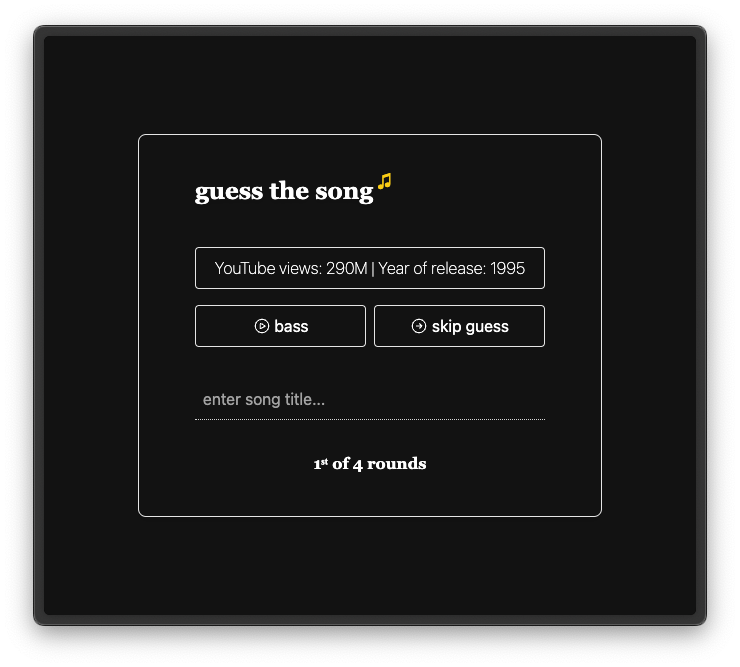
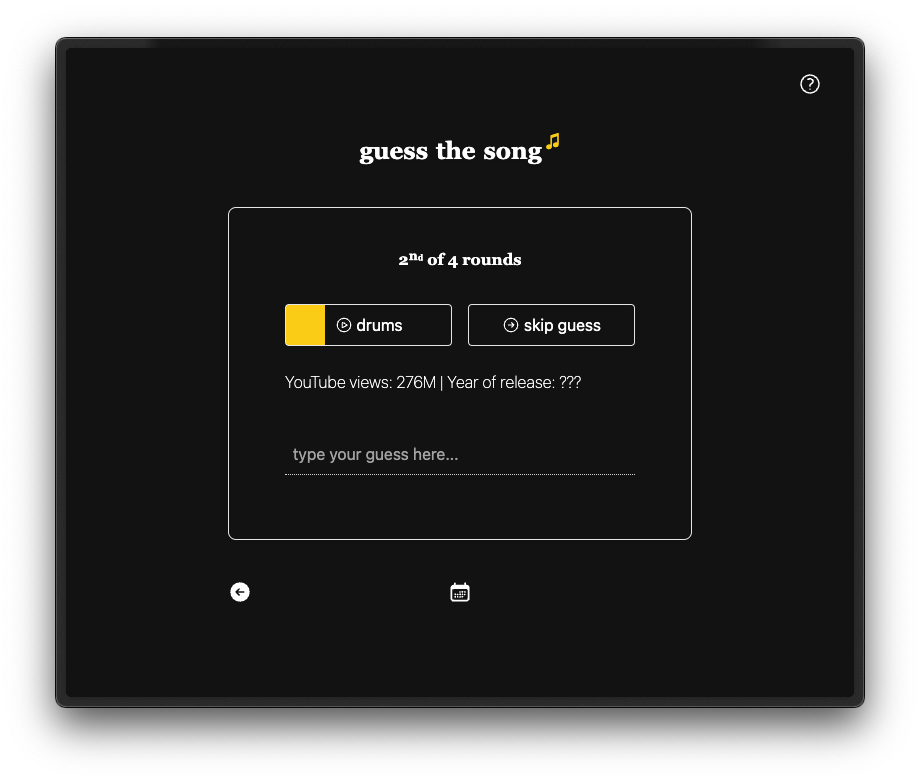
docs: replace screenshot with latest version

diff --git a/pages/[id].vue b/pages/[id].vue
@@ -218,9 +218,7 @@ watch(bass, (newValue) => {
         <audio :src="audioSrc(short, 'instru')" ref="instru" />
       </div>
 
-      <div
-        class="mx-4 text-sm sm:text-base font-thin rounded border py-2 flex flex-row justify-center gap-1 items-center"
-      >
+      <div class="mx-4 text-sm sm:text-base font-thin py-2 flex flex-row gap-1">
         <div>
           YouTube views:
           {{ !alreadyAnswered() && currentRound < 1 ? '???' : views }}

diff --git a/README.md b/README.md
@@ -11,7 +11,7 @@ WIP
 ## TODOS
 
 - [ ] do not send search query if empty
-- [ ] fix page transition direction on calendar navigation
+- [x] fix page transition direction on calendar navigation
 - [ ] fix server time offset bug
 - [ ] custom error page
 - [ ] animations & micro animations
